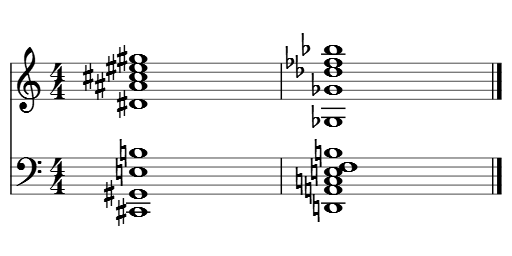
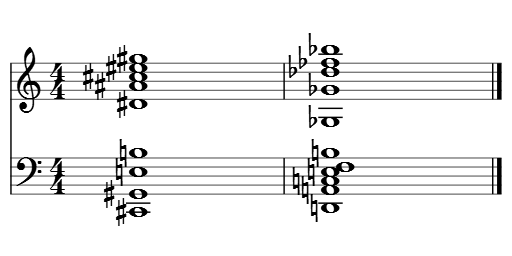
slot unmatched accidentals into octave colums where possible
Former-commit-id: 7cbed30dabaa4a79e57d2a4c4b30386e8c9e39cd

Changed region(s): [[0.5312, 0.5312, 0.7188, 0.875], [0.5312, 0.125, 0.6875, 0.4062], [0.5938, 0.4062, 0.6875, 0.5]]

diff --git a/libmscore/layout.cpp b/libmscore/layout.cpp
@@ -798,40 +798,84 @@ void Score::layoutChords3(QList<Note*>& notes, Staff* staff, Segment* segment)
             for (int pc = 0; pc < 7; ++pc) {
                   if (columnBottom[pc] == -1)
                         continue;
-                  int lastLine = aclist[columnBottom[pc]].line;
-                  int firstLine = lastLine;
                   // calculate column height
-                  for (int j = columnBottom[pc]; j != -1; j = aclist[j].next) {
-                        firstLine = aclist[j].line;
+                  for (int j = columnBottom[pc]; j != -1; j = aclist[j].next)
                         columnTop[pc] = j;
-                        }
-                  if (firstLine == lastLine) {
-                        columnTop[pc] = -1;
-                        continue;
-                        }
                   }
 
             // compute reasonable column order
             // use zig zag
-            QList<int> column;\
+            QList<int> column;
+            QList<int> unmatched;
             int n = nAcc - 1;
             for (int i = 0; i <= n; ++i, --n) {
                   int pc = (aclist[i].line + 700) % 7;
-                  if (columnTop[pc] != -1) {
-                        column.append(pc);
-                        columnTop[pc] = -1;
+                  if (aclist[columnTop[pc]].line != aclist[columnBottom[pc]].line) {
+                        if (!column.contains(pc))
+                              column.append(pc);
                         }
+                  else
+                        unmatched.append(i);
                   if (i == n)
                         break;
                   pc = (aclist[n].line + 700) % 7;
-                  if (columnTop[pc] != -1) {
-                        column.append(pc);
-                        columnTop[pc] = -1;
+                  if (aclist[columnTop[pc]].line != aclist[columnBottom[pc]].line) {
+                        if (!column.contains(pc))
+                              column.append(pc);
                         }
+                  else
+                        unmatched.append(n);
                   }
+            int nColumns = column.size();
+            int nUnmatched = unmatched.size();
+
+            // handle unmatched accidentals
+            for (int i = 0; i < nUnmatched; ++i) {
+                  // first try to slot it into an existing column
+                  AcEl* me = &aclist[unmatched[i]];
+                  // find column
+                  bool found = false;
+                  for (int j = 0; j < nColumns; ++j) {
+                        int pc = column[j];
+                        int above = -1;
+                        int below = -1;
+                        // find slot within column
+                        for (int k = columnBottom[pc]; k != -1; k = aclist[k].next) {
+                              if (aclist[k].line < me->line) {
+                                    above = k;
+                                    break;
+                                    }
+                              below = k;
+                              }
+                        // check to see if accidental can fit in slot
+                        qreal myPd = pd * me->note->mag();
+                        bool conflict = false;
+                        if (above != -1 && me->top - aclist[above].bottom < myPd)
+                              conflict = true;
+                        else if (below != -1 && aclist[below].top - me->bottom < myPd)
+                              conflict = true;
+                        if (!conflict) {
+                              // insert into column
+                              found = true;
+                              me->next = above;
+                              if (above == -1)
+                                    columnTop[pc] = unmatched[i];
+                              if (below != -1)
+                                    aclist[below].next = unmatched[i];
+                              else
+                                    columnBottom[pc] = unmatched[i];
+                              break;
+                              }
+                        }
+                  // if no slot found, then add to list of unmatched accidental indices
+                  if (!found)
+                        umi.append(unmatched[i]);
+                  }
+            nAcc = umi.size();
+            if (nAcc > 1)
+                  qSort(umi);
 
             // lay out columns
-            int nColumns = column.size();
             for (int i = 0; i < nColumns; ++i) {
                   int pc = column[i];
                   AcEl* below = 0;
@@ -851,22 +895,7 @@ void Score::layoutChords3(QList<Note*>& notes, Staff* staff, Segment* segment)
                         }
                   // move to next column
                   colOffset = minX;
-                  // mark as done
-                  columnBottom[pc] = -1;
                   }
-
-            // build list of unmatched accidentals
-            int nUnmatched = 0;
-            for (int i = 0; i < nAcc; ++i) {
-            int pc = (aclist[i].line + 700) % 7;
-                  if (columnBottom[pc] == -1)
-                        continue;
-                  else {
-                        umi.append(i);
-                        ++nUnmatched;
-                        }
-                  }
-            nAcc = nUnmatched;
 
             }
 
